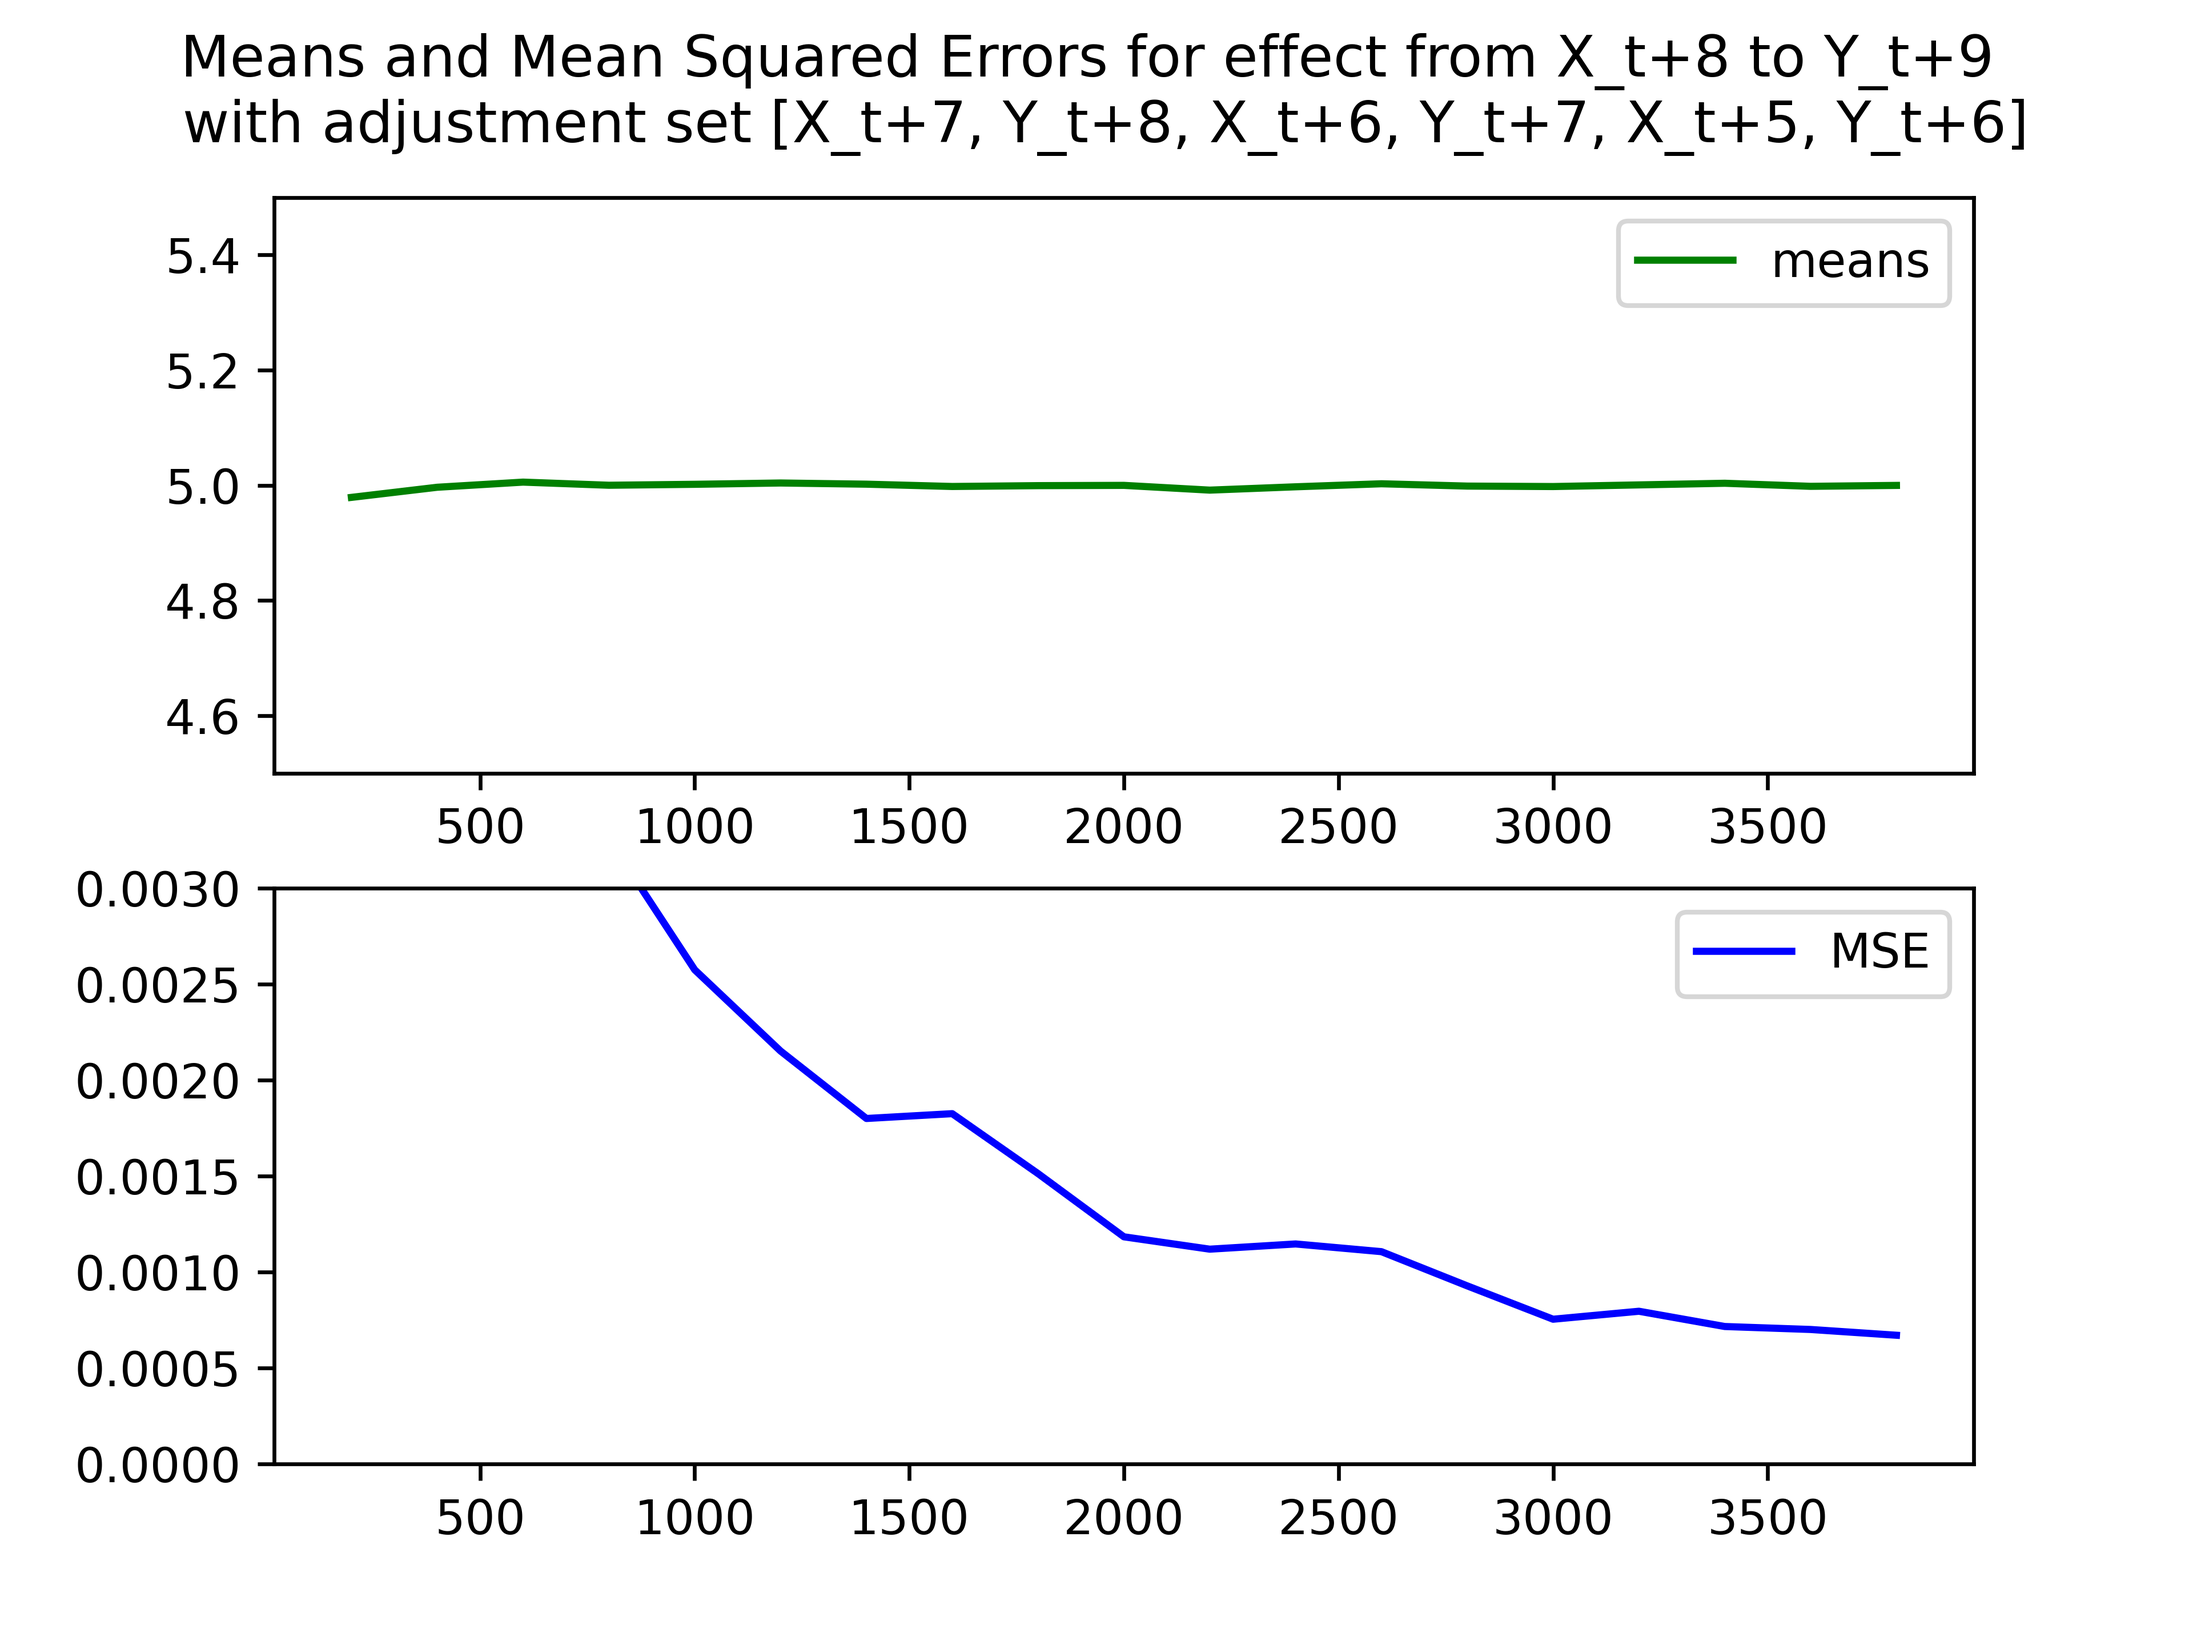
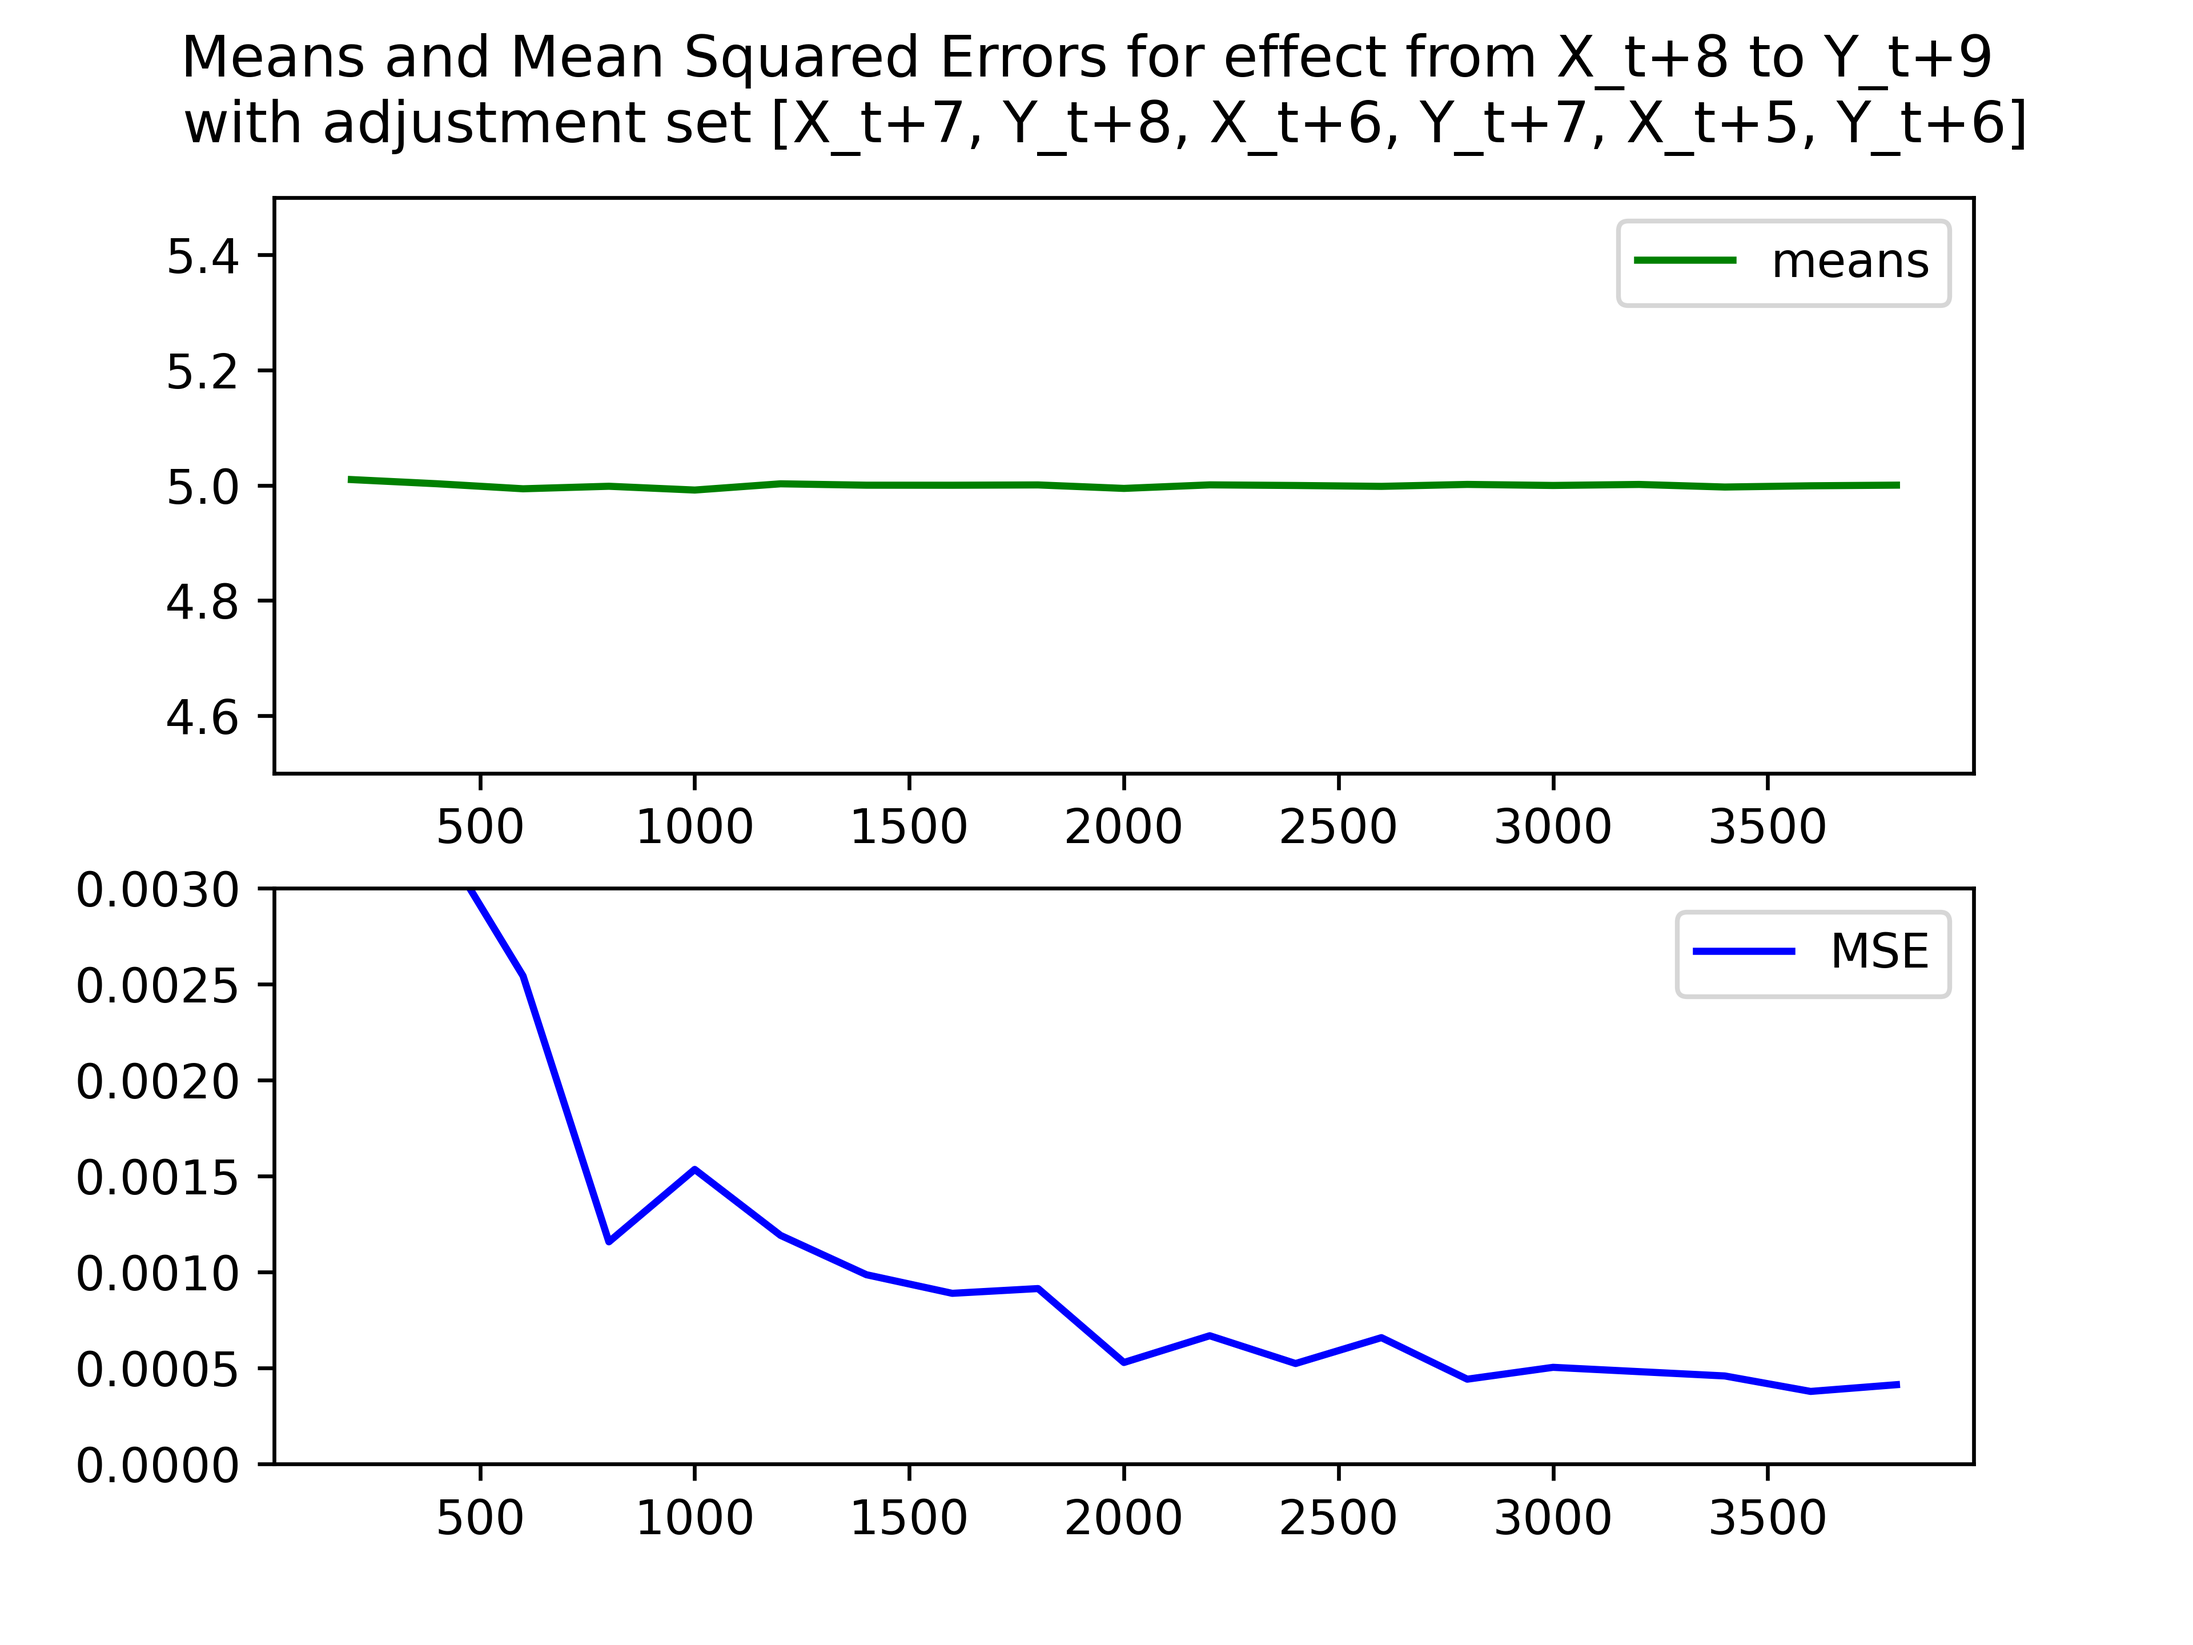
updated model parameters

diff --git a/models.py b/models.py
@@ -9,8 +9,8 @@ MODEL_ADMG = TimeseriesSampleGenerator(
         edges=[
             SampleEdge(TimeAwareNodeReference("X", -1), TimeAwareNodeReference("X"), 0.9),
             SampleEdge(TimeAwareNodeReference("X", -1), TimeAwareNodeReference("Y"), 5),
-            SampleEdge(TimeAwareNodeReference("Z", -2), TimeAwareNodeReference("Y"), 1),
-            SampleEdge(TimeAwareNodeReference("Z", -1), TimeAwareNodeReference("Y"), 1),
+            SampleEdge(TimeAwareNodeReference("Z", -2), TimeAwareNodeReference("Y"), 0.5),
+            SampleEdge(TimeAwareNodeReference("Z", -1), TimeAwareNodeReference("Y"), 0.5),
         ],
 
 

diff --git a/main.py b/main.py
@@ -5,5 +5,5 @@ from experiments.relation_variance_quotient import run_experiment as run_relatio
 
 if __name__ == "__main__":
     run_admg_experiment()
-    run_dag_experiment()
+    #run_dag_experiment()
     #run_relation_experiment()
